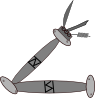
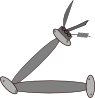
modificados niveles 1 y 2

Changed region(s): [[0.4632, 0.8265, 0.5895, 0.949], [0.2947, 0.551, 0.4421, 0.7041]]

diff --git a/lib/levelposimages.py b/lib/levelposimages.py
@@ -1,7 +1,7 @@
 level1 = { 1:(183, 52),  2:(176, 112),  3:(199, 171),  4:(148, 208),  5:( 60, 174),  6:(259, 246),  7:(149, 392),  8:(216, 393) }
 
-level2 = { 1:(188,  52),  2:(180, 108),  3:(180, 169),  5:(195, 189),  6:( 58, 113),  7:( 79, 134),  8:(147, 210), 
-           9:(147, 300), 10:(161, 394), 11:(261, 242), 12:(323, 365), 13:(174, 393), 14:(220, 393), 15:(151, 518), 16:(236, 515), }
+level2 = { 1:(188,  52),  2:(180, 108),  3:(180, 169),  5:(195, 175),  6:( 58, 113),  7:( 78, 201),  8:(147, 210), 
+           9:(147, 300), 10:(161, 394), 11:(261, 242), 12:(314, 301), 13:(174, 393), 14:(220, 393), 15:(151, 518), 16:(236, 515), }
 
 level3 = { 1:(161,  54),  2:(156, 112),  3:(156, 175),  4:(181, 156),  5:(180, 191),  6:(124, 215),  7:(144, 219),  8:(164, 221), 
            9:(187, 221), 10:(198, 219), 11:(216, 215), 12:(139, 210), 13:(125, 295), 14:(139, 393), 15:( 70, 242), 16:( 70, 299), 
